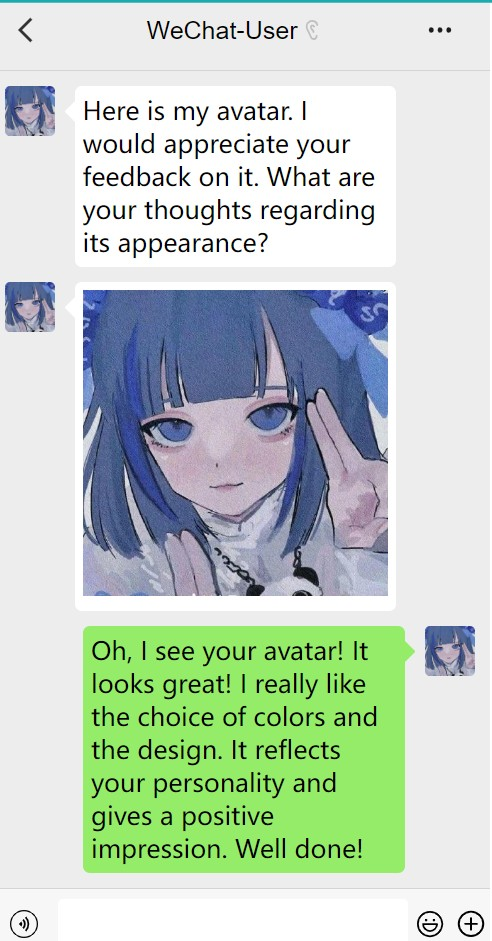
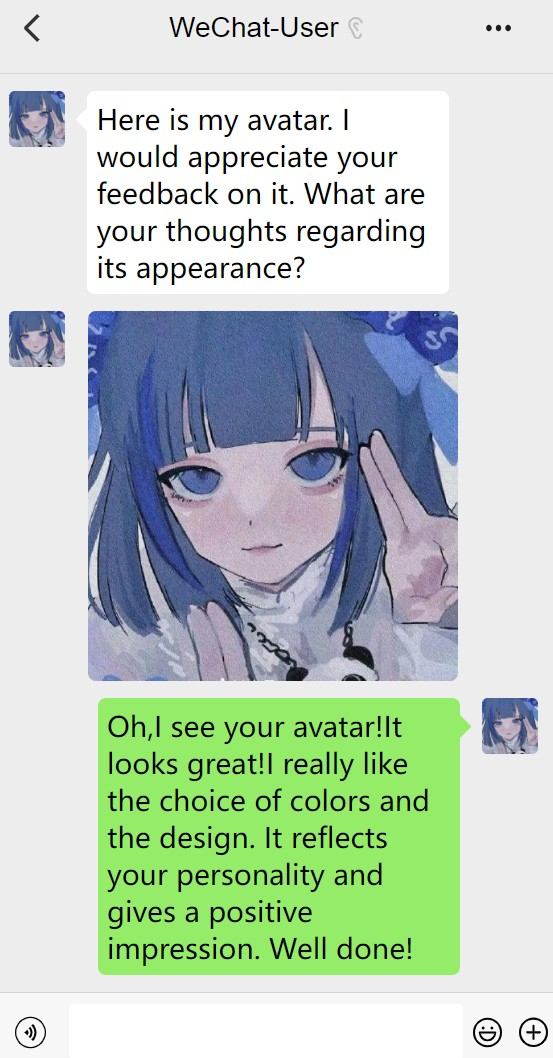
feat: add dark mode improved photo message

diff --git a/index.html b/index.html
@@ -7,16 +7,24 @@
     <meta name="viewport" content="width=device-width, initial-scale=1.0">
     <title>WeChat-Chat</title>
     <link rel="stylesheet" href="./css/index.css">
+    <link rel="stylesheet" href="./css/dark.css">
+    <link rel="stylesheet" href="./css/switch.css">
+    <script src="./js/index.js"></script>
 </head>
 
 <body>
-    <div class="main-box">
+    <div class="controll-box">
+        <label>
+            <input class="mui-switch mui-switch-animbg" type="checkbox" onclick="onDarkModeChanged(this)" />Dark Mode
+        </label>
+    </div>
+    <div class="main-box" id="wechat-conversation">
         <div class="header">
             <svg t="1686653070988" class="return-button" viewBox="0 0 1024 1024" version="1.1"
                 xmlns="http://www.w3.org/2000/svg" p-id="1057" width="30" height="30">
                 <path
                     d="M243.072 512l347.818667 347.776-72.448 72.448-384-384q-1.749333-1.792-3.370667-3.754667-1.578667-1.92-2.986667-4.010666-1.365333-2.133333-2.56-4.309334-1.194667-2.218667-2.133333-4.565333-0.981333-2.304-1.706667-4.693333-0.725333-2.432-1.237333-4.906667-0.469333-2.474667-0.725333-4.949333Q119.466667 514.474667 119.466667 512q0-2.517333 0.256-5.034667 0.256-2.474667 0.725333-4.949333 0.512-2.474667 1.237333-4.864 0.725333-2.432 1.706667-4.736 0.938667-2.346667 2.133333-4.565333 1.152-2.218667 2.56-4.266667 1.408-2.133333 2.986667-4.053333 1.621333-1.962667 3.413333-3.754667l384-384 72.405334 72.448L243.072 512z"
-                    fill="#333333" p-id="1058"></path>
+                    p-id="1058"></path>
             </svg>
             <div class="name-box">
                 <span>WeChat-User</span>
@@ -24,14 +32,14 @@
                     xmlns="http://www.w3.org/2000/svg" p-id="10575" width="20" height="20">
                     <path
                         d="M515.700778 0c142.711252 0 260.342177 80.359417 307.199116 212.461552 2.326561 6.747027 6.886621 20.334143 13.587116 40.714817a23.26561 23.26561 0 0 1-11.120961 27.779139l-37.224976 19.868831a23.26561 23.26561 0 0 1-32.525323-11.725868 4513.063049 4513.063049 0 0 1-20.613331-51.044748c-35.08454-90.735879-116.793363-144.432908-219.301641-144.432908-131.822947 0-238.658629 110.046336-238.658628 245.777905 0 33.502479 6.514371 65.934739 18.891675 95.993908 8.37562 20.380674 19.310456 42.250348 34.665759 69.936424l4.513529 8.096432c9.16665 16.285927 38.574382 67.004957 47.927156 83.570071l1.070218 1.861249c43.692816 77.521013 72.123391 139.17488 92.317941 208.227211l1.209812 4.18781c26.662389 93.202034 63.608178 129.822104 142.059815 116.095394 53.417841-9.352775 80.405949-42.436473 84.547228-111.163085 0.139594-2.233499 0-6.560902-0.465313-13.028742a27.918732 27.918732 0 0 1 21.73008-29.268137l34.898415-7.817245a27.918732 27.918732 0 0 1 33.874729 24.42889c1.023687 9.864619 1.395937 17.961051 1.023687 24.242766-5.630278 114.513333-60.118337 187.334693-160.393117 204.876963-71.611548 12.563429-130.008229-4.420466-173.375326-47.368782-32.571854-32.246136-53.743559-75.101389-70.122549-131.031917l-0.977156-3.44331c-17.495739-61.048961-42.669129-116.467644-82.499853-187.520817l-6.049059-10.702181c-11.632805-20.380674-39.086225-67.795988-46.53122-81.196979l-4.001685-7.119277a763.018949 763.018949 0 0 1-39.086225-79.289199A347.122903 347.122903 0 0 1 186.120145 339.39872C186.120145 151.970965 333.670645 0 515.700778 0z m66.539645 242.334595c33.92126 11.911992 66.167395 50.160655 81.662292 88.641974l1.116749 2.745342a23.26561 23.26561 0 0 1-9.864619 29.314669l-34.665759 19.775769a23.26561 23.26561 0 0 1-32.385729-9.864619 46.298564 46.298564 0 0 0-2.047374-3.81556c-4.56006-7.305402-11.725867-29.547325-33.17676-38.155601-9.492369-3.81556-22.939892-2.233499-33.828197 2.186968-16.425521 6.700496-27.360357 25.219921-24.80114 46.15897 1.628593 13.168335 6.049059 22.753767 16.472052 35.689446l1.256343 1.582062c3.396779 4.094747 7.25887 8.468682 12.656492 14.238553l22.89336 24.289297c19.0778 20.613331 34.479634 39.179287 50.114124 61.421211 15.169178 21.590486 27.82567 49.927999 38.481319 85.198664l3.908623 13.587116a29.221606 29.221606 0 0 1-21.311299 36.154758l-29.966106 7.258871a31.175918 31.175918 0 0 1-35.735977-17.54227l-1.53553-4.234341c-8.468682-29.779981-17.821457-51.742717-27.546483-65.609021a458.704769 458.704769 0 0 0-39.086225-48.252875l-6.467839-6.886621-16.472052-17.495739a432.461161 432.461161 0 0 1-19.263925-21.543955c-21.962736-26.70892-34.479634-52.719873-38.620913-86.082757-7.817245-63.887365 26.988108-122.702828 81.522698-144.944751 29.640387-12.098117 64.724927-14.983053 96.645344-3.81556z"
-                        fill="#bfbfbf" p-id="10576"></path>
+                        p-id="10576"></path>
                 </svg>
             </div>
             <svg t="1686654293763" class="more-button" viewBox="0 0 1024 1024" version="1.1"
                 xmlns="http://www.w3.org/2000/svg" p-id="1278" width="30" height="30">
                 <path
                     d="M213.312 608C166.208 608 128 564.992 128 512s38.208-96 85.312-96c47.168 0 85.376 43.008 85.376 96S260.48 608 213.312 608zM512 608c-47.104 0-85.312-43.008-85.312-96S464.896 416 512 416s85.312 43.008 85.312 96S559.104 608 512 608z m298.688 0c-47.168 0-85.376-43.008-85.376-96s38.208-96 85.376-96C857.792 416 896 459.008 896 512s-38.208 96-85.312 96z"
-                    fill="#000000" fill-opacity=".88" p-id="1279"></path>
+                    fill-opacity=".88" p-id="1279"></path>
             </svg>
         </div>
         <div class="chat-box">
@@ -47,12 +55,8 @@
 
             <div class="message-left">
                 <img src="https://avatars.githubusercontent.com/u/69061641" class="avatar" alt="avatar">
-                <div class="arrow"></div>
-                <div class="msg-wrapper">
-                    <img src="https://avatars.githubusercontent.com/u/69061641" class="msg-photo" alt="photo">
-                </div>
+                <img src="https://avatars.githubusercontent.com/u/69061641" class="msg-photo" alt="photo">
             </div>
-
 
             <div class="message-right">
                 <div class="msg-wrapper">
@@ -65,10 +69,7 @@
             </div>
 
             <div class="message-right">
-                <div class="msg-wrapper">
-                    <img src="https://avatars.githubusercontent.com/u/69061641" class="msg-photo" alt="photo">
-                </div>
-                <div class="arrow"></div>
+                <img src="https://avatars.githubusercontent.com/u/69061641" class="msg-photo" alt="photo">
                 <img src="https://avatars.githubusercontent.com/u/69061641" class="avatar" alt="avatar">
             </div>
         </div>
@@ -93,19 +94,19 @@
                 xmlns="http://www.w3.org/2000/svg" p-id="17011" width="40" height="40">
                 <path
                     d="M512 992C247.3 992 32 776.7 32 512S247.3 32 512 32s480 215.3 480 480-215.3 480-480 480z m0-896C282.6 96 96 282.6 96 512s186.6 416 416 416 416-186.6 416-416S741.4 96 512 96z"
-                    fill="#000000" p-id="17012"></path>
+                    p-id="17012"></path>
                 <path
                     d="M512 800c-78 0-151.1-30.7-205.7-86.5C253.2 659.4 224 587.8 224 512c0-17.7 14.3-32 32-32h512c17.7 0 32 14.3 32 32 0 75.8-29.2 147.4-82.3 201.5C663.1 769.3 590 800 512 800zM352 668.8c42.5 43.4 99.3 67.2 160 67.2s117.5-23.9 160-67.2c33.7-34.4 55-77.9 61.7-124.8H290.3c6.6 46.9 28 90.3 61.7 124.8zM368 416c-26.5 0-48-21.5-48-48s21.5-48 48-48 48 21.5 48 48-21.5 48-48 48zM656 416c-26.5 0-48-21.5-48-48s21.5-48 48-48 48 21.5 48 48-21.5 48-48 48z"
-                    fill="#000000" p-id="17013"></path>
+                    p-id="17013"></path>
             </svg>
             <svg t="1686660338007" class="plus-button" viewBox="0 0 1025 1024" version="1.1"
                 xmlns="http://www.w3.org/2000/svg" p-id="19642" width="40" height="40">
                 <path
                     d="M852.812 166.713c-92.715-89.28-212.9-140.789-339.954-140.789s-250.672 51.509-339.953 140.79c-188.863 188.862-188.863 491.043 0 679.906 89.28 89.28 212.9 140.789 339.953 140.789S763.531 935.9 852.812 846.62c188.863-188.863 188.863-491.044 0-679.907m-48.074 631.833c-78.98 78.979-181.996 120.185-291.88 120.185s-212.9-41.206-291.879-120.185c-161.392-161.392-161.392-422.367 0-583.759 78.98-78.979 181.996-120.185 291.88-120.185s212.9 41.206 291.879 120.185c161.392 161.392 161.392 422.367 0 583.759"
-                    fill="#000000" p-id="19643"></path>
+                    p-id="19643"></path>
                 <path
                     d="M547.197 472.328V297.2c0-20.603-13.735-34.338-34.339-34.338S478.52 276.597 478.52 297.2v175.128H303.392c-20.603 0-34.339 13.735-34.339 34.339 0 10.301 3.434 17.169 10.302 24.037s13.736 10.301 24.037 10.301H478.52v175.128c0 10.302 3.434 17.17 10.301 24.037 6.868 6.868 13.736 10.302 24.037 10.302 20.604 0 34.34-13.736 34.34-34.34V541.006h175.127c20.603 0 34.338-13.735 34.338-34.338s-13.735-34.34-34.338-34.34H547.197z"
-                    fill="#000000" p-id="19644"></path>
+                    p-id="19644"></path>
             </svg>
             </svg>
         </div>

diff --git a/css/switch.css b/css/switch.css
@@ -1,0 +1,62 @@
+.mui-switch {
+    width: 52px;
+    height: 31px;
+    position: relative;
+    border: 1px solid #dfdfdf;
+    background-color: #fdfdfd;
+    box-shadow: #dfdfdf 0 0 0 0 inset;
+    border-radius: 20px;
+    border-top-left-radius: 20px;
+    border-top-right-radius: 20px;
+    border-bottom-left-radius: 20px;
+    border-bottom-right-radius: 20px;
+    background-clip: content-box;
+    display: inline-block;
+    appearance: none;
+    user-select: none;
+    outline: none;
+}
+
+.mui-switch:before {
+    content: '';
+    width: 29px;
+    height: 29px;
+    position: absolute;
+    top: 0px;
+    left: 0;
+    border-radius: 20px;
+    border-top-left-radius: 20px;
+    border-top-right-radius: 20px;
+    border-bottom-left-radius: 20px;
+    border-bottom-right-radius: 20px;
+    background-color: #fff;
+    box-shadow: 0 1px 3px rgba(0, 0, 0, 0.4);
+}
+
+.mui-switch:checked {
+    border-color: #64bd63;
+    box-shadow: #64bd63 0 0 0 16px inset;
+    background-color: #64bd63;
+}
+
+.mui-switch:checked:before {
+    left: 21px;
+}
+
+.mui-switch.mui-switch-animbg {
+    transition: background-color ease 0.4s;
+}
+
+.mui-switch.mui-switch-animbg:before {
+    transition: left 0.3s;
+}
+
+.mui-switch.mui-switch-animbg:checked {
+    box-shadow: #dfdfdf 0 0 0 0 inset;
+    background-color: #64bd63;
+    transition: border-color 0.4s, background-color ease 0.4s;
+}
+
+.mui-switch.mui-switch-animbg:checked:before {
+    transition: left 0.3s;
+}

diff --git a/css/dark.css b/css/dark.css
@@ -1,0 +1,59 @@
+.dark {
+    background-color: rgb(17, 17, 17);
+}
+
+.dark .header {
+    background-color: rgb(17, 17, 17);
+    border-bottom: 1px solid rgb(17, 17, 17);
+    color: rgb(207, 207, 207)
+}
+
+.dark .message-left .msg-wrapper {
+    background-color: rgb(44, 44, 44);
+    color: rgb(207, 207, 207);
+}
+
+.dark .message-right .msg-wrapper {
+    background-color: rgb(62, 180, 119);
+}
+
+.dark .message-right .arrow {
+    border-left-color: rgb(62, 180, 119);
+}
+
+.dark .message-left .arrow {
+    border-right-color: rgb(44, 44, 44);
+}
+
+.dark .reply-box {
+    border-top-color: rgb(40, 40, 40);
+    background-color: rgb(30, 30, 30);
+}
+
+.dark .reply-box .user-input {
+    background-color: rgb(41, 41, 41);
+}
+
+.dark .more-button {
+    fill: rgb(207, 207, 207);
+}
+
+.dark .return-button {
+    fill: rgb(207, 207, 207);
+}
+
+.dark .emogi-button {
+    fill: rgb(207, 207, 207);
+}
+
+.dark .voice-button {
+    fill: rgb(207, 207, 207);
+}
+
+.dark .plus-button {
+    fill: rgb(207, 207, 207);
+}
+
+.dark .listen-icon {
+    fill: rgb(88, 88, 88);
+}

diff --git a/css/index.css b/css/index.css
@@ -16,6 +16,7 @@
 .return-button {
     display: inline-block;
     margin: 25px;
+    fill: #333;
 }
 
 .name-box {
@@ -35,12 +36,14 @@
 
 .listen-icon {
     margin-left: 5px;
+    fill: #bfbfbf;
 }
 
 .more-button {
     display: inline-block;
     margin-top: 25px;
     margin-right: 25px;
+    fill: #000;
 }
 
 .message-left,
@@ -56,7 +59,9 @@
 
 .message-left .msg-photo,
 .message-right .msg-photo {
-    max-width: 100%;
+    max-width: 70%;
+    margin: 0 20px;
+    border-radius: 7px;
 }
 
 .avatar {
@@ -113,14 +118,17 @@
 
 .voice-button {
     margin: 15px 20px;
+    fill: #000;
 }
 
 .emogi-button {
     margin: 15px 8px;
+    fill: #000;
 }
 
 .plus-button {
     margin: 15px 5px;
+    fill: #000;
 }
 
 .user-input {
@@ -129,4 +137,17 @@
     margin-top: 10px;
     background-color: white;
     border-radius: 5px;
+}
+
+.controll-box {
+    float: left;
+}
+
+.controll-box label {
+    display: block;
+}
+
+.controll-box label,
+.controll-box input {
+    vertical-align: middle;
 }

diff --git a/js/index.js b/js/index.js
@@ -1,0 +1,6 @@
+function onDarkModeChanged(e) {
+    if (e.checked == true)
+        document.getElementById("wechat-conversation").classList.add("dark");
+    else
+        document.getElementById("wechat-conversation").classList.remove("dark");
+}

diff --git a/README.md b/README.md
@@ -11,3 +11,4 @@
 
 # Screenshot
 ![Screenshot](./screenshot/screenshot.jpg)
+![darkMode](./screenshot/darkMode.jpg)
